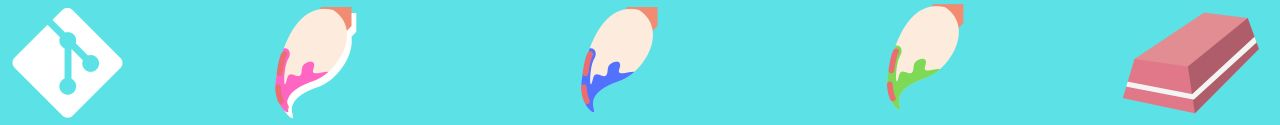
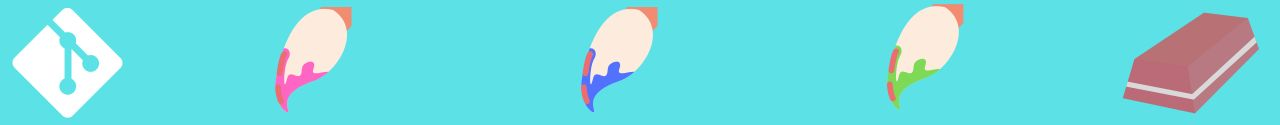
Completed Project 2: Interactive Painter

Changed region(s): [[0.875, 0.096, 1.0, 0.912], [0.2188, 0.096, 0.2812, 0.936]]

diff --git a/VirtualPainter.py b/VirtualPainter.py
@@ -1,0 +1,104 @@
+import os
+import time
+import numpy as np
+import cv2
+import HandTrackingModule as htm
+
+#---------------------------------
+brushThickness = 15
+eraserThickness = 100
+#---------------------------------
+
+folderPath = "Header"
+myList = os.listdir(folderPath)
+print(myList)
+overLayList = []
+
+for imPath in myList:
+    # Reading an image file
+    image = cv2.imread(f'{folderPath}/{imPath}')
+    overLayList.append(image)
+print(len(overLayList))
+header = overLayList[0]
+drawColor = (255, 0, 255) # Purple
+
+cap = cv2.VideoCapture(0)
+cap.set(3, 1280)
+cap.set(4, 720)
+
+detector = htm.handDetector(detectionCon=0.85)
+xp, yp = 0, 0
+imgCanvas = np.zeros((720, 1280, 3), np.uint8)
+
+while True:
+    # 1. Import image
+    success, img = cap.read()
+    # Flip the image, since we are more familiar with looking the camera right side.
+    img = cv2.flip(img, 1)
+
+    # 2. Find hand landmarks
+    img = detector.findHands(img)
+    lmList = detector.findPosition(img, draw=False)
+    if len(lmList) != 0:
+
+        # print(lmList)
+
+        # The coordinates of the tip of index and middle fingers
+        x1, y1 = lmList[8][1:]
+        x2, y2 = lmList[12][1:]
+
+        # 3. Checking which fingers are up
+        fingers = detector.fingersUp()
+        # print(fingers)
+
+        # 4. If Selection mode - Two finger are up
+        if fingers[1] and fingers[2]:
+            xp, yp = 0, 0
+            print("Selection Mode")
+            # Checking for the click
+            if y1 < 125:
+                if 250 < x1 < 450:
+                    header = overLayList[0]
+                    drawColor = (255, 0, 255)
+                elif 550 < x1 < 750:
+                    header = overLayList[1]
+                    drawColor = (255, 0, 0)
+                elif 800 < x1 < 950:
+                    header = overLayList[2]
+                    drawColor = (0, 255, 0)
+                elif 1050 < x1 < 1200:
+                    header = overLayList[3]
+                    drawColor = (0, 0, 0)
+            cv2.rectangle(img, (x1, y1 - 25), (x2, y2 + 25), drawColor, cv2.FILLED)
+
+        # 5. If Drawing Mode - Index finger is up
+        if fingers[1] and fingers[2] == False:
+            cv2.circle(img, (x1, y1), 15, drawColor, cv2.FILLED)
+            print("Drawing Mode")
+            if xp == 0 and yp == 0:
+                xp, yp = x1, y1
+
+            if drawColor == (0,0,0):
+                cv2.line(img, (xp, yp), (x1, y1), drawColor, eraserThickness)
+                cv2.line(imgCanvas, (xp, yp), (x1, y1), drawColor, eraserThickness)
+            else:
+                cv2.line(img, (xp, yp), (x1, y1), drawColor, brushThickness)
+                cv2.line(imgCanvas, (xp, yp), (x1, y1), drawColor, brushThickness)
+
+            xp, yp = x1, y1
+
+    imgGray = cv2.cvtColor(imgCanvas, cv2.COLOR_BGR2GRAY)
+    _, imgInv = cv2.threshold(imgGray, 50, 255, cv2.THRESH_BINARY_INV)
+    imgInv = cv2.cvtColor(imgInv, cv2.COLOR_GRAY2BGR)
+    img = cv2.bitwise_and(img, imgInv)
+    img = cv2.bitwise_or(img, imgCanvas)
+
+
+
+    # Slicing and setting the header image on the camera.
+    img[0:125, 0:1280] = header
+    # Stack the monitor and the canvas on top of each other
+    # img = cv2.addWeighted(img, 0.5, imgCanvas, 0.5, 0)
+    cv2.imshow("Monitor", img)
+    cv2.imshow("Canvas", imgCanvas)
+    cv2.waitKey(1)

diff --git a/HandTrackingModule.py b/HandTrackingModule.py
@@ -14,6 +14,7 @@ class handDetector():
                                         self.detectionCon, self.trackCon) # We use the default input parameter of the Hands() function.
         self.mpDraw = mp.solutions.drawing_utils
 
+        self.tipIds = [4, 8, 12, 16, 20]
  
     # Create a function to find the hands
     def findHands(self, img, draw=True):
@@ -33,7 +34,7 @@ class handDetector():
     # Track the position of the hand
     def findPosition(self, img, handNo=0, draw=True):
 
-        lmList = []
+        self.lmList = []
         if self.results.multi_hand_landmarks:  # Check if there is anything on the screen
             myHand = self.results.multi_hand_landmarks[handNo]
             for id, lm in enumerate(myHand.landmark):
@@ -41,12 +42,30 @@ class handDetector():
                 h, w, c = img.shape # Find the height, width and channels of the image
                 cx, cy = int(lm.x * w), int(lm.y * h) # Find position of the image
                 # print(id, cx, cy) # Print the position of the image
-                lmList.append([id, cx, cy])
+                self.lmList.append([id, cx, cy])
                 if draw:
                     cv2.circle(img, (cx, cy), 15, (255, 0 ,255), cv2.FILLED)
 
-        return lmList
+        return self.lmList
 
+    # Count how many fingers are raised
+    def fingersUp(self):
+        fingers = []
+
+        # Thumb
+        if self.lmList[self.tipIds[0]][1] < self.lmList[self.tipIds[0] - 1][1]:
+            fingers.append(1)
+        else:
+            fingers.append(0)
+
+        # The rest of 4 fingers
+        for id in range(1, 5):
+            if self.lmList[self.tipIds[id]][2] < self.lmList[self.tipIds[id] - 2][2]:
+                fingers.append(1)
+            else:
+                fingers.append(0)
+
+        return fingers
 
 def main():
     pTime = 0
